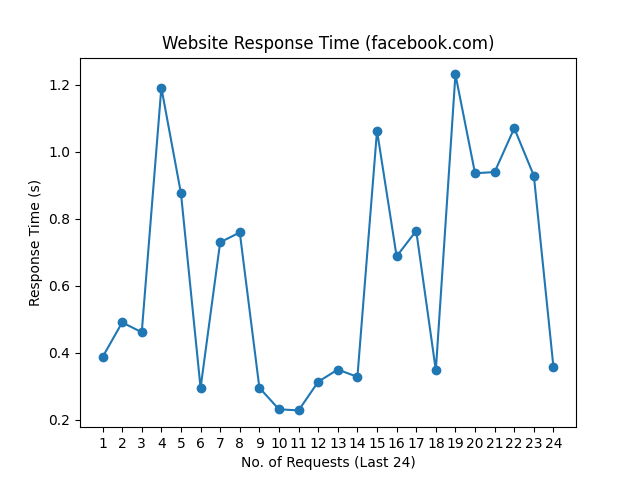
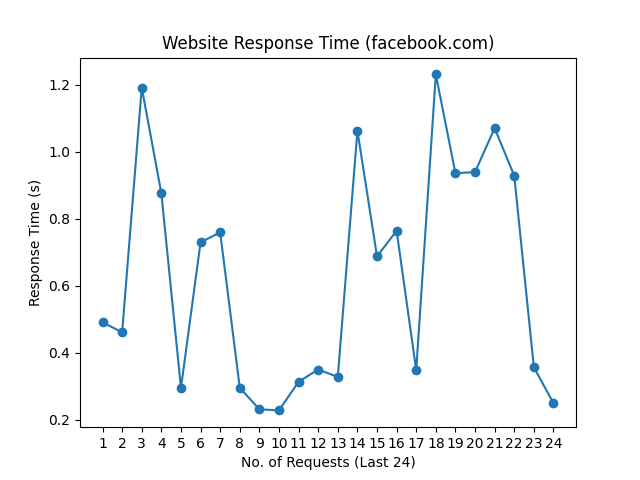
update README.md, history and graph

Changed region(s): [[0.1562, 0.125, 0.875, 0.875]]

diff --git a/README.md b/README.md
@@ -1,10 +1,10 @@
 # Web Monitoring
 
-Last Checked: 29/10/2024 08:20
+Last Checked: 30/10/2024 08:20
 
 | Website | Response Time (s) | Status | Avg Uptime (%) |
 |---------|-------------------|--------|----------------|
 | www.thiswebsiteisdown.net | 0 <br> <img src="graph/thiswebsiteisdown.net.png" alt="Graph" width="200" height="200">  | ❌ Down | 0.00 |
-| www.netflix.com | 1.194005 <br> <img src="graph/netflix.com.png" alt="Graph" width="200" height="200">  | ✅ Up | 100.00 |
-| www.google.com | 0.231253 <br> <img src="graph/google.com.png" alt="Graph" width="200" height="200">  | ✅ Up | 100.00 |
-| www.facebook.com | 0.356781 <br> <img src="graph/facebook.com.png" alt="Graph" width="200" height="200">  | ✅ Up | 100.00 |
+| www.netflix.com | 0.875670 <br> <img src="graph/netflix.com.png" alt="Graph" width="200" height="200">  | ✅ Up | 100.00 |
+| www.google.com | 0.079582 <br> <img src="graph/google.com.png" alt="Graph" width="200" height="200">  | ✅ Up | 100.00 |
+| www.facebook.com | 0.249250 <br> <img src="graph/facebook.com.png" alt="Graph" width="200" height="200">  | ✅ Up | 100.00 |
